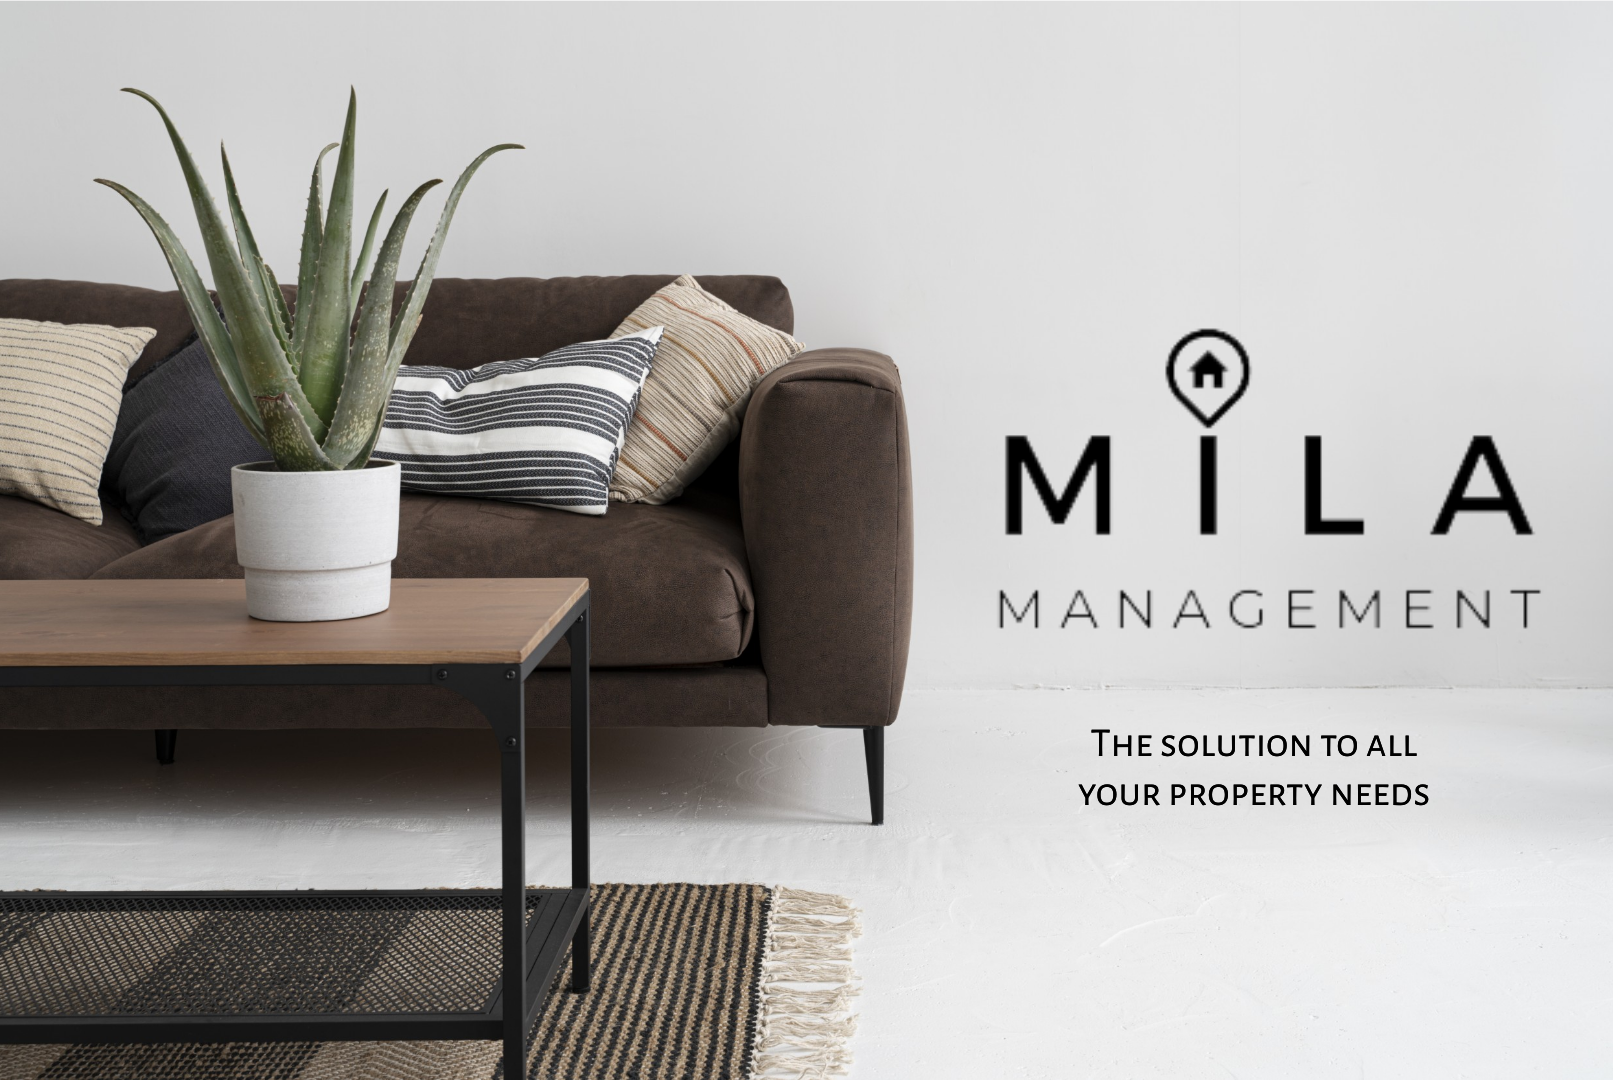
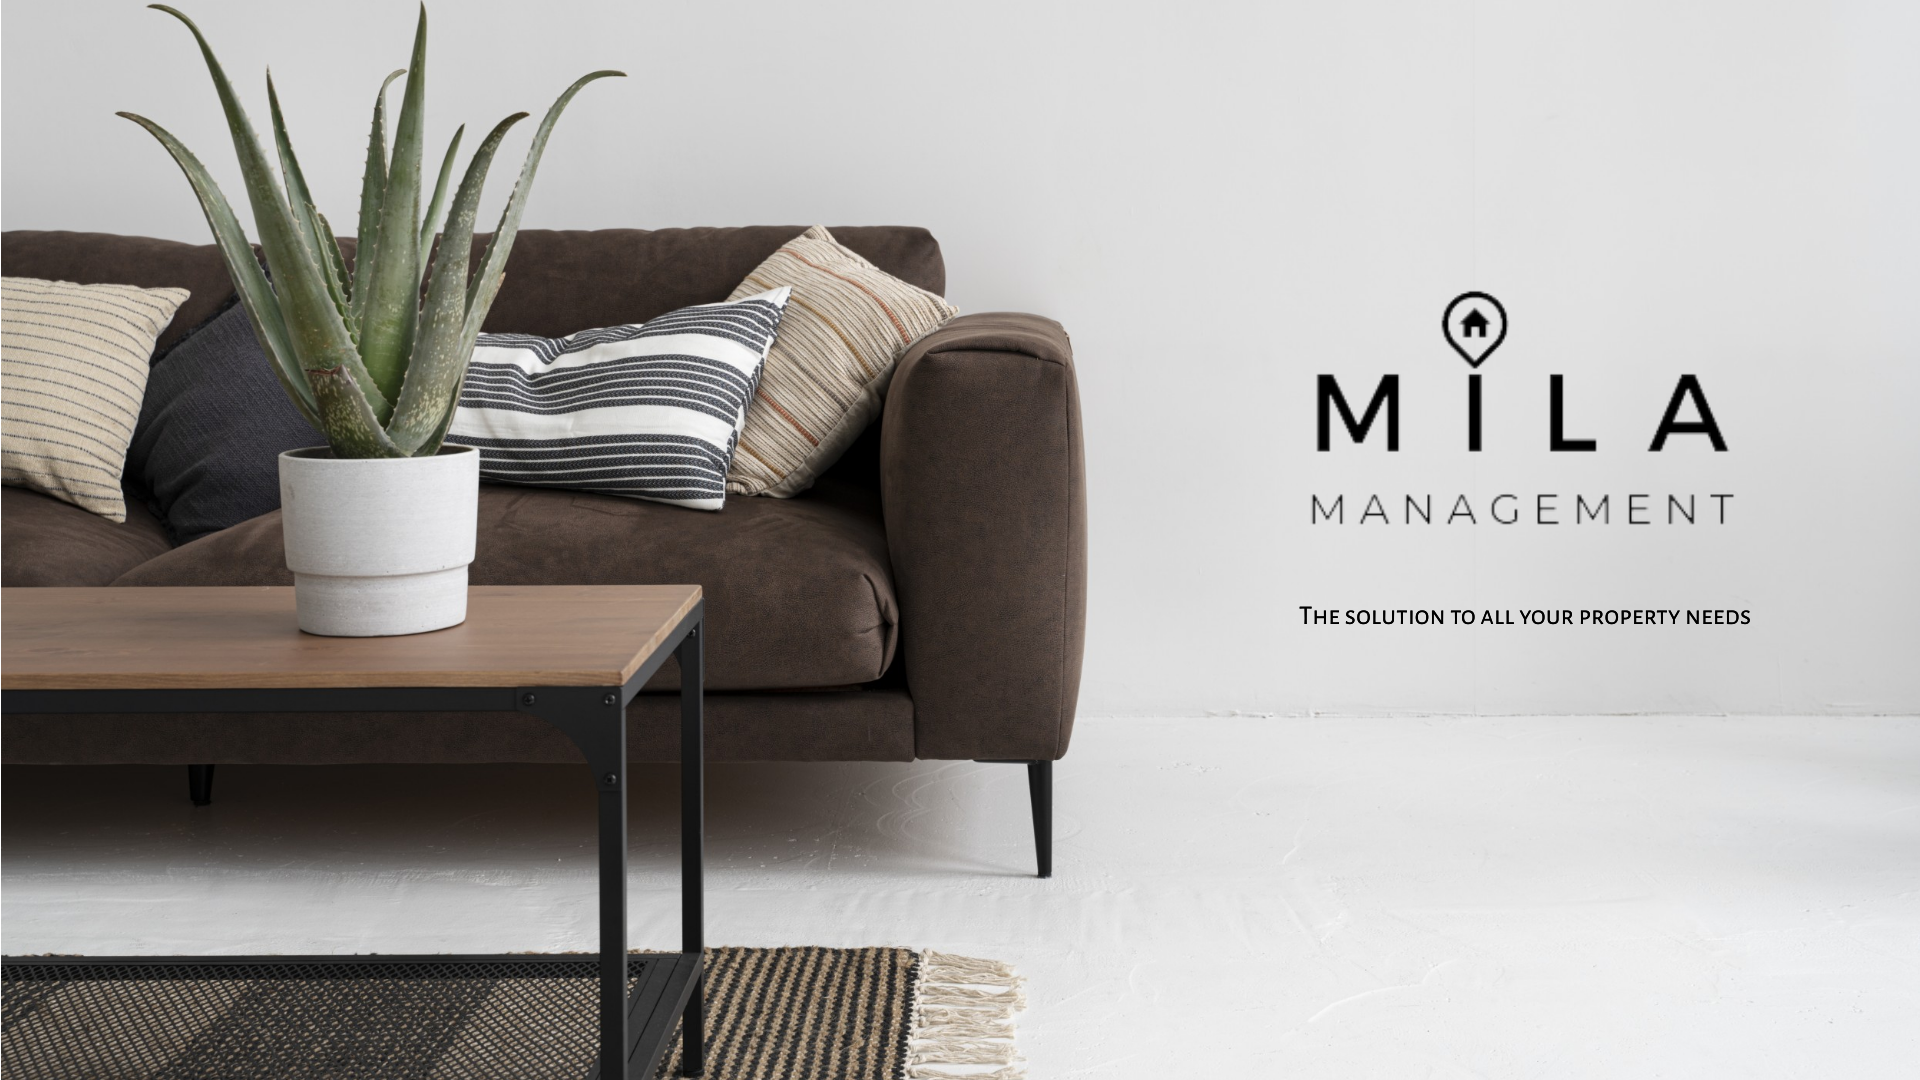
added something

diff --git a/index.html b/index.html
@@ -67,7 +67,7 @@
     </nav>
 
 <div class="container-fluid d-none d-lg-block title-text p-0">
-        <img class="bg-img" src="https://github.com/alisadiq91/milamanagement/blob/main/assets/media/bg.png?raw=true" alt="bg">
+        <img class="bg-img" src="https://github.com/alisadiq91/milamanagement/blob/main/assets/media/bg2.png?raw=true" alt="bg">
         
 </div>
 

diff --git a/assets/css/style.css b/assets/css/style.css
@@ -40,8 +40,8 @@
 }
 
 .bg-img {
-    width: 100%;
-    opacity: 0.8;
+  
+    
 }
 
 .bg-mobile {
